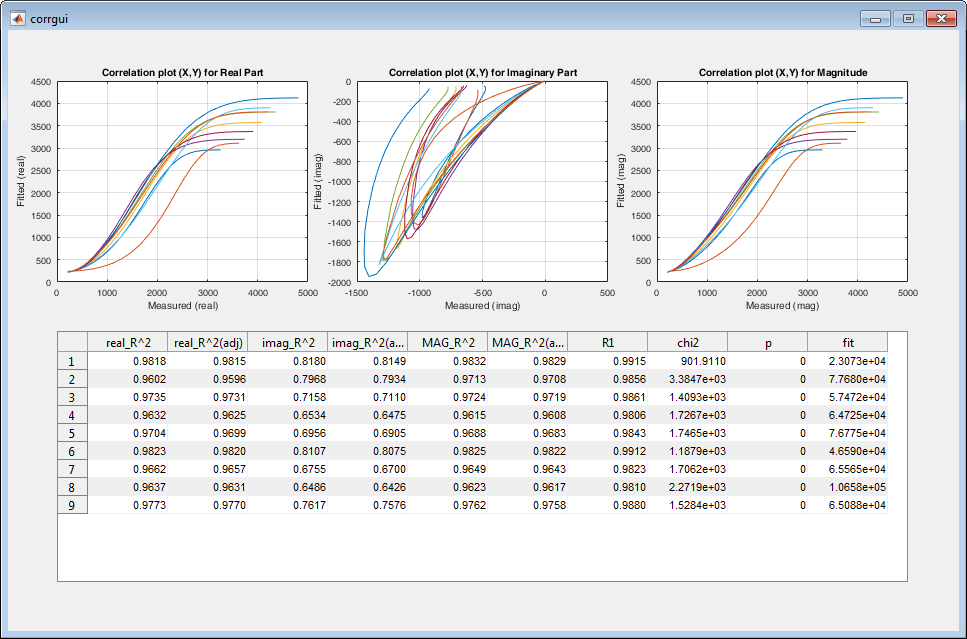
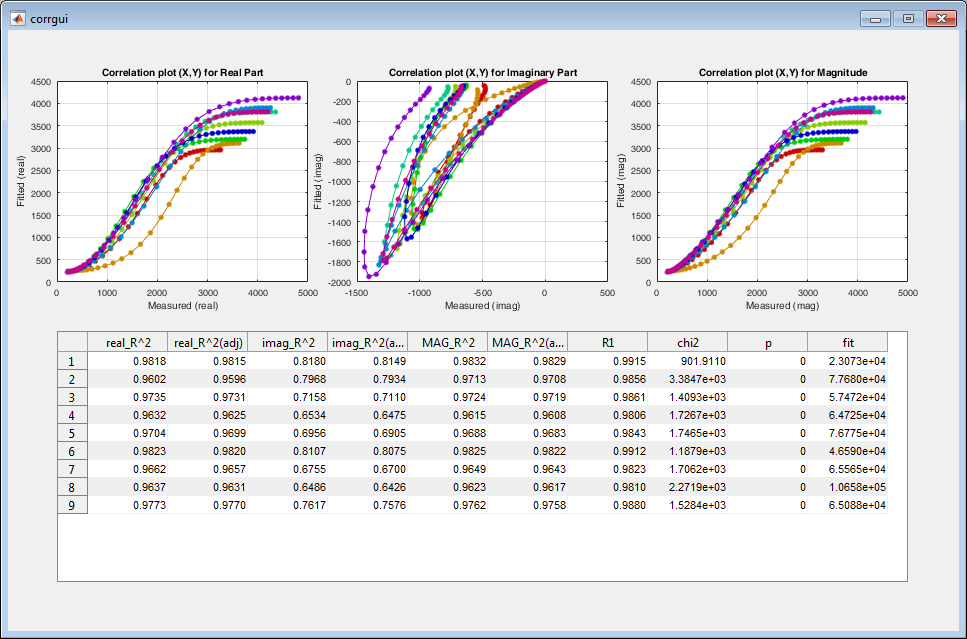
Update graphics

Changed region(s): [[0.3723, 0.1189, 0.5584, 0.446], [0.062, 0.1487, 0.3102, 0.446], [0.6825, 0.1487, 0.9307, 0.446]]

diff --git a/eistoolbox.m b/eistoolbox.m
@@ -243,7 +243,10 @@ function plotnyq(hObject, eventdata, handles)
 
     cm=colormap(hsv(length(data))); % define a colormap
     for idx=1:length(data)
-        plot(data{idx}(:,2),abs(data{idx}(:,3)),'color',cm(idx,:));
+        plot(data{idx}(:,2),abs(data{idx}(:,3)),...
+            'color',0.8*cm(idx,:),...
+            'marker','.',...
+            'markersize',12);
     end
 
     disp('Info: Input data files succesfully plotted');
@@ -272,10 +275,14 @@ function plotbod(hObject, eventdata, handles)
             'semilogx');
         set(ax(1),'FontSize',7,'YColor',[0 0 0.7]);
         set(ax(2),'FontSize',7,'YColor',[0.7 0 0]);
-        hLine1.LineStyle = '-';
-        hLine1.Color = cm(idx,:);
-        hLine2.LineStyle = '--';
-        hLine2.Color = cm(idx,:);
+        hLine1.LineStyle = ':';
+        hLine1.Marker = '.';
+        hLine1.MarkerSize = 12;
+        hLine1.Color = 0.8*cm(idx,:);
+        hLine2.LineStyle = ':';
+        hLine2.Marker = 'x';
+        hLine2.MarkerSize = 5;
+        hLine2.Color = 0.8*cm(idx,:);
         if idx > 1; set(ax(2),'YTick',[]); end % prevents marker overlapping
     end
     
@@ -304,7 +311,10 @@ function plotnyq2(hObject, eventdata, handles)
     
     cm=colormap(hsv(length(zbest))); % define a colormap
     for idx=1:length(zbest)
-        plot(zbest{idx}(:,1),abs(zbest{idx}(:,2)),'color',cm(idx,:));
+        plot(zbest{idx}(:,1),abs(zbest{idx}(:,2)),...
+            'color',0.8*cm(idx,:),...
+            'marker','.',...
+            'markersize',12);
     end
     
     disp('Info: Fitted data succesfully plotted');
@@ -334,10 +344,14 @@ function plotbod2(hObject, eventdata, handles)
             'semilogx'); 
         set(ax(1),'FontSize',7,'YColor',[0 0 0.7]);
         set(ax(2),'FontSize',7,'YColor',[0.7 0 0]);
-        hLine1.LineStyle = '-';
-        hLine1.Color = cm(idx,:);
-        hLine2.LineStyle = '--';
-        hLine2.Color = cm(idx,:);
+        hLine1.LineStyle = ':';
+        hLine1.Marker = '.';
+        hLine1.MarkerSize = 12;
+        hLine1.Color = 0.8*cm(idx,:);
+        hLine2.LineStyle = ':';
+        hLine2.Marker = 'x';
+        hLine2.MarkerSize = 5;
+        hLine2.Color = 0.8*cm(idx,:);
         if idx > 1; set(ax(2),'YTick',[]); end % prevents marker overlapping
     end
 

diff --git a/helpers/calculate_correlations.m b/helpers/calculate_correlations.m
@@ -47,7 +47,10 @@ cla;    % clear previous data
 
 % Correlation (X,Y) plots, ideally should be straight lines
 for idx=1:length(expected_real)
-    plot(expected_real{idx},observed_real{idx},'color',cm(idx,:));
+    plot(expected_real{idx},observed_real{idx},...
+        'color',0.8*cm(idx,:),...
+        'marker','.',...
+        'markersize',12);
     hold on;
     grid on;
 end
@@ -61,7 +64,10 @@ axes(aximag);
 cla;    % clear previous data
 
 for idx=1:length(measured)
-    plot(expected_imag{idx},observed_imag{idx},'color',cm(idx,:));
+    plot(expected_imag{idx},observed_imag{idx},...
+        'color',0.8*cm(idx,:),...
+        'marker','.',...
+        'markersize',12);
     hold on;
     grid on;
 end
@@ -76,7 +82,10 @@ axes(axmag);
 cla;    % clear previous data
 
 for idx=1:length(measured)
-    plot(expected_MAG{idx},observed_MAG{idx},'color',cm(idx,:));
+    plot(expected_MAG{idx},observed_MAG{idx},...
+        'color',0.8*cm(idx,:),...
+        'marker','.',...
+        'markersize',12);
     hold on;
     grid on;
 end
